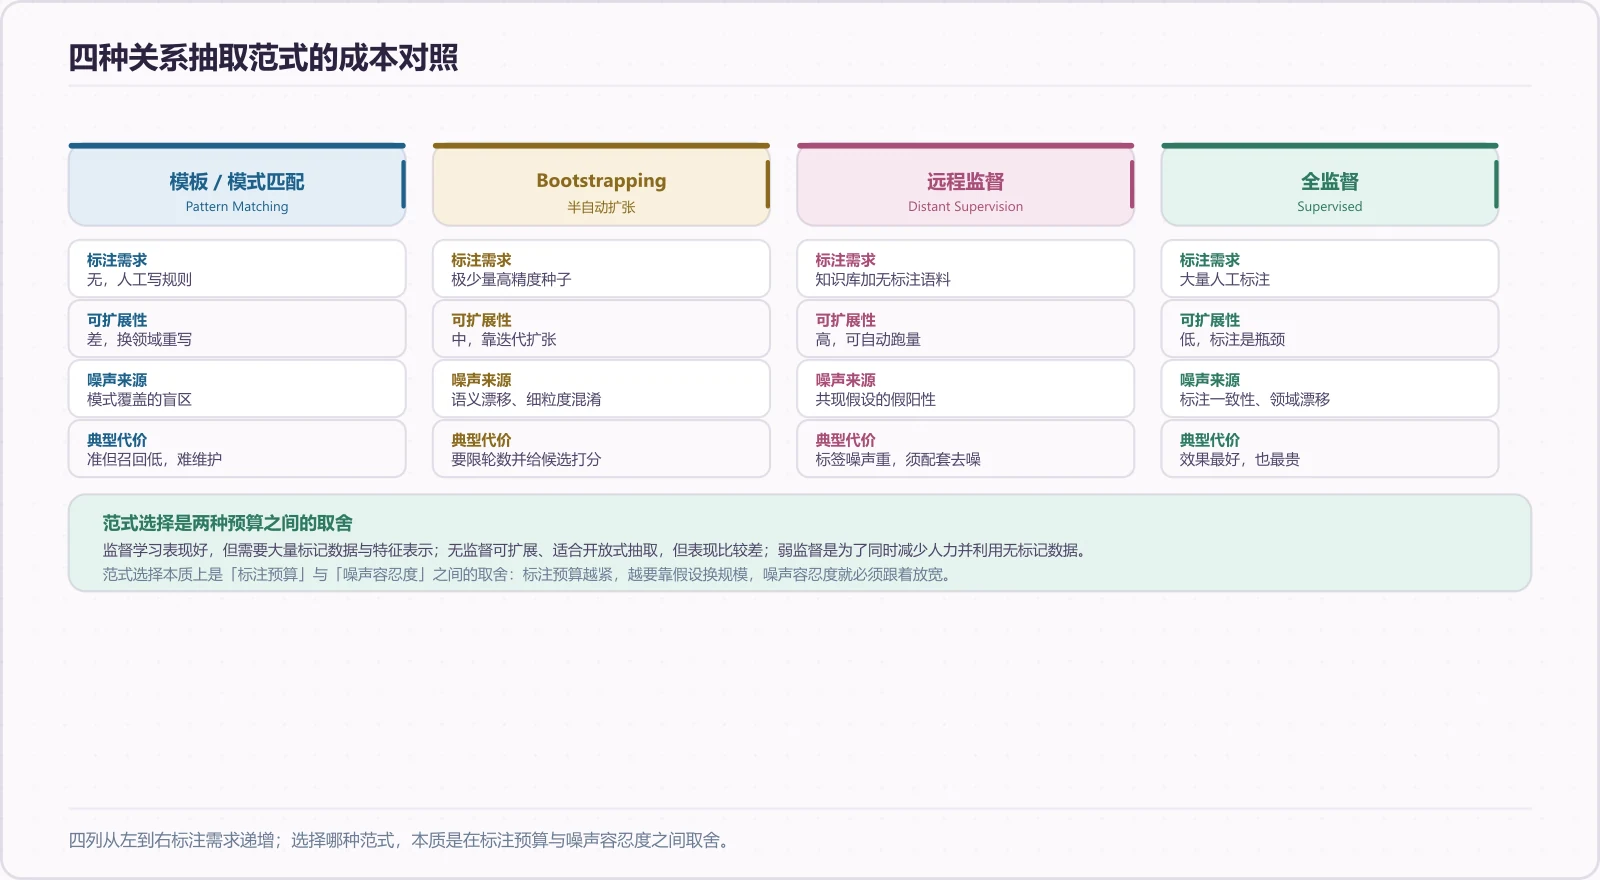
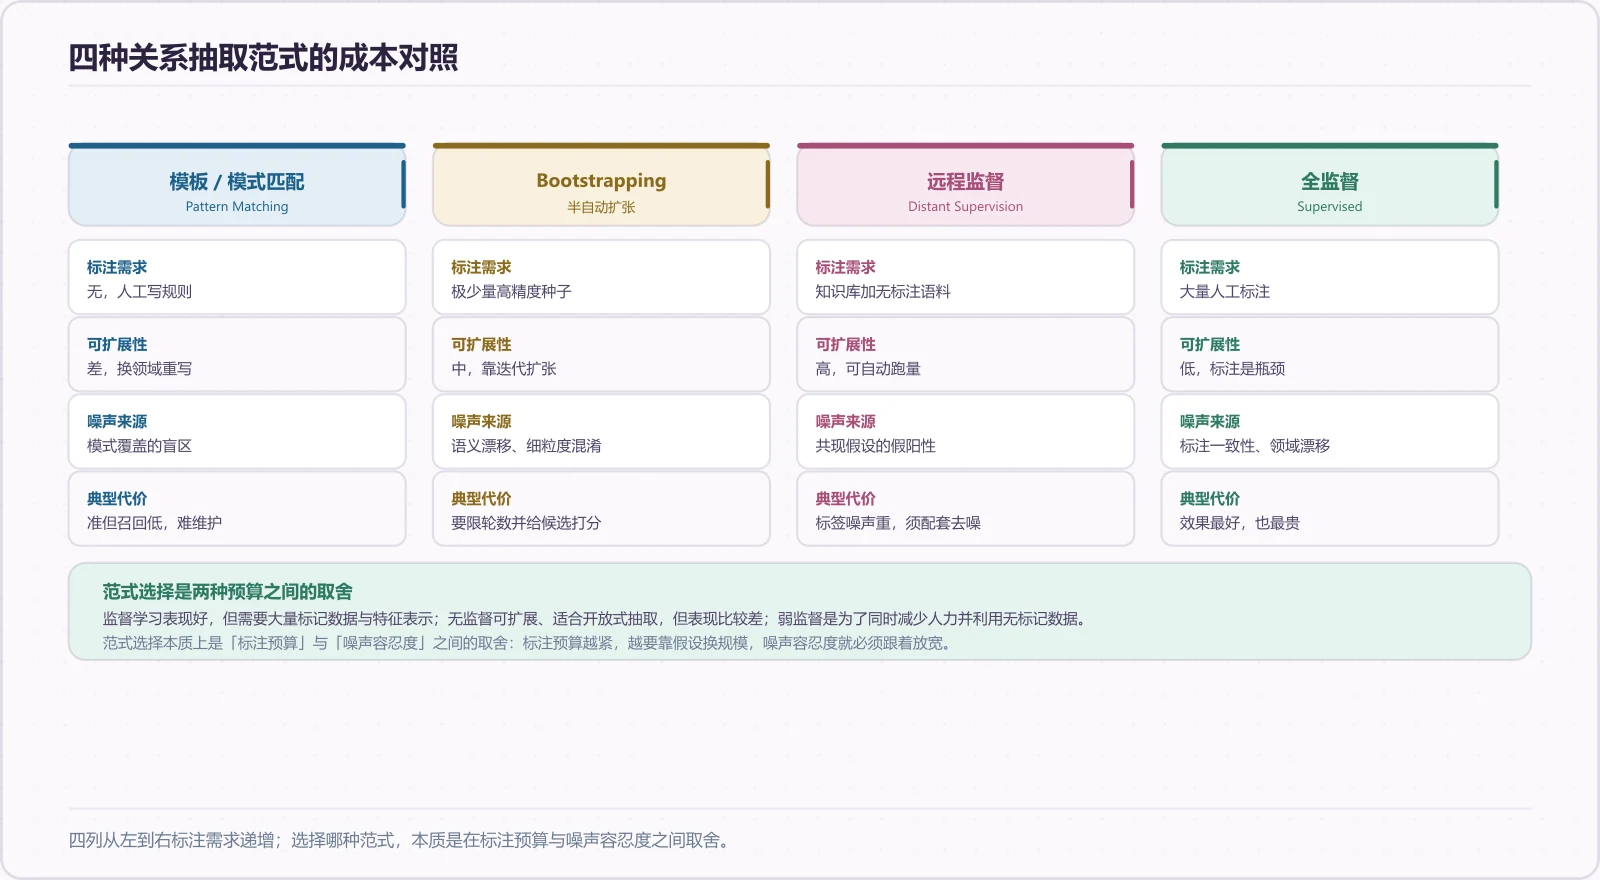
fix(content): 校正并行渲染导致的失效尺寸标注，并固化同步工具
## 问题

九篇上线后，一个后台流程重新渲染了 03/04/06/08 与 05 共 12 张图解，
产物尺寸随之变化，此前按旧产物回写的尺寸标注全部失效。
其中 05 篇两张偏差最大：声明 1600x1257 / 1600x1077，实际 1600x880 / 1600x760。

这是并行编辑的典型冲突：图解高度由内容决定，每次重新渲染都可能变，
而标注写在文章里，两者之间没有任何自动同步。

## 处置

按产物实际尺寸校正全部 19 处标注，重新构建并部署（版本 a9ac4c75）。

## 固化：新增 scripts/diagrams/sync-dims.mjs

把「按产物回写标注」做成命令，并提供两道防线：

  npm run diagrams        生成并渲染图解
  npm run diagrams:sync   按产物实际尺寸回写文章里的标注（支持 --dry-run）
  npm run images:check    校验，不一致即失败

后者之前已存在，但只作为独立检查；现在它成为「忘记回写」的兜底 ——
一旦渲染后没同步，构建前的 content:check 就会失败。

## 验证

- 正常情况下 sync-dims 报「更新 0 处，已一致 21 处」
- 回归测试：故意把 07-blocking 的标注改成 1600x999，images:check 正确报错、
  sync-dims --dry-run 正确列出差异、实际运行后修复、复检通过
- content:check、check、verify-export（71 项）、check-links（51 页 / 139 条）
  全部通过；九篇文章线上一一返回 200

Changed region(s): [[0.0312, 0.2761, 0.9375, 0.767]]

diff --git a/content/posts/kg-03-knowledge-extraction.md b/content/posts/kg-03-knowledge-extraction.md
@@ -178,6 +178,12 @@ HMM/CRF 是这一代的主力，靠的是词性、词典、上下文窗口这些
 
 代价是**依赖标注语料的规模**，以及模型越来越不好解释。
 
+### 远程监督
+
+远程监督（distant supervision）是把外部知识库当「免费标注员」。Mintz 等的规模很直观：Freebase 的 102 种关系、17000 个种子实例，映射到当时 120 万篇维基百科文章，最终抽出 180 万个实例、连接 94 万个实体。流程分两个阶段，训练阶段用 NER 标 person / organization / location，对 Freebase 中出现的实体对提特征、训一个多类别逻辑回归；测试阶段把句子里出现的每对实体都当潜在关系实例送进模型。
+
+它的代价也来自这个流程：知识库说 (e1, r, e2) 成立，语料里凡是同一对 e1、e2 同句出现的地方都被打上 r，而同一对实体在不同句子里聊的根本不是同一件事。第 05 篇会把这条噪声链路完整拆开。
+
 ### 预训练加微调
 
 这一代把上限又推了一截（+BERT+BiLSTM → +Fine Tune），同时把两类新麻烦带到台面上。
